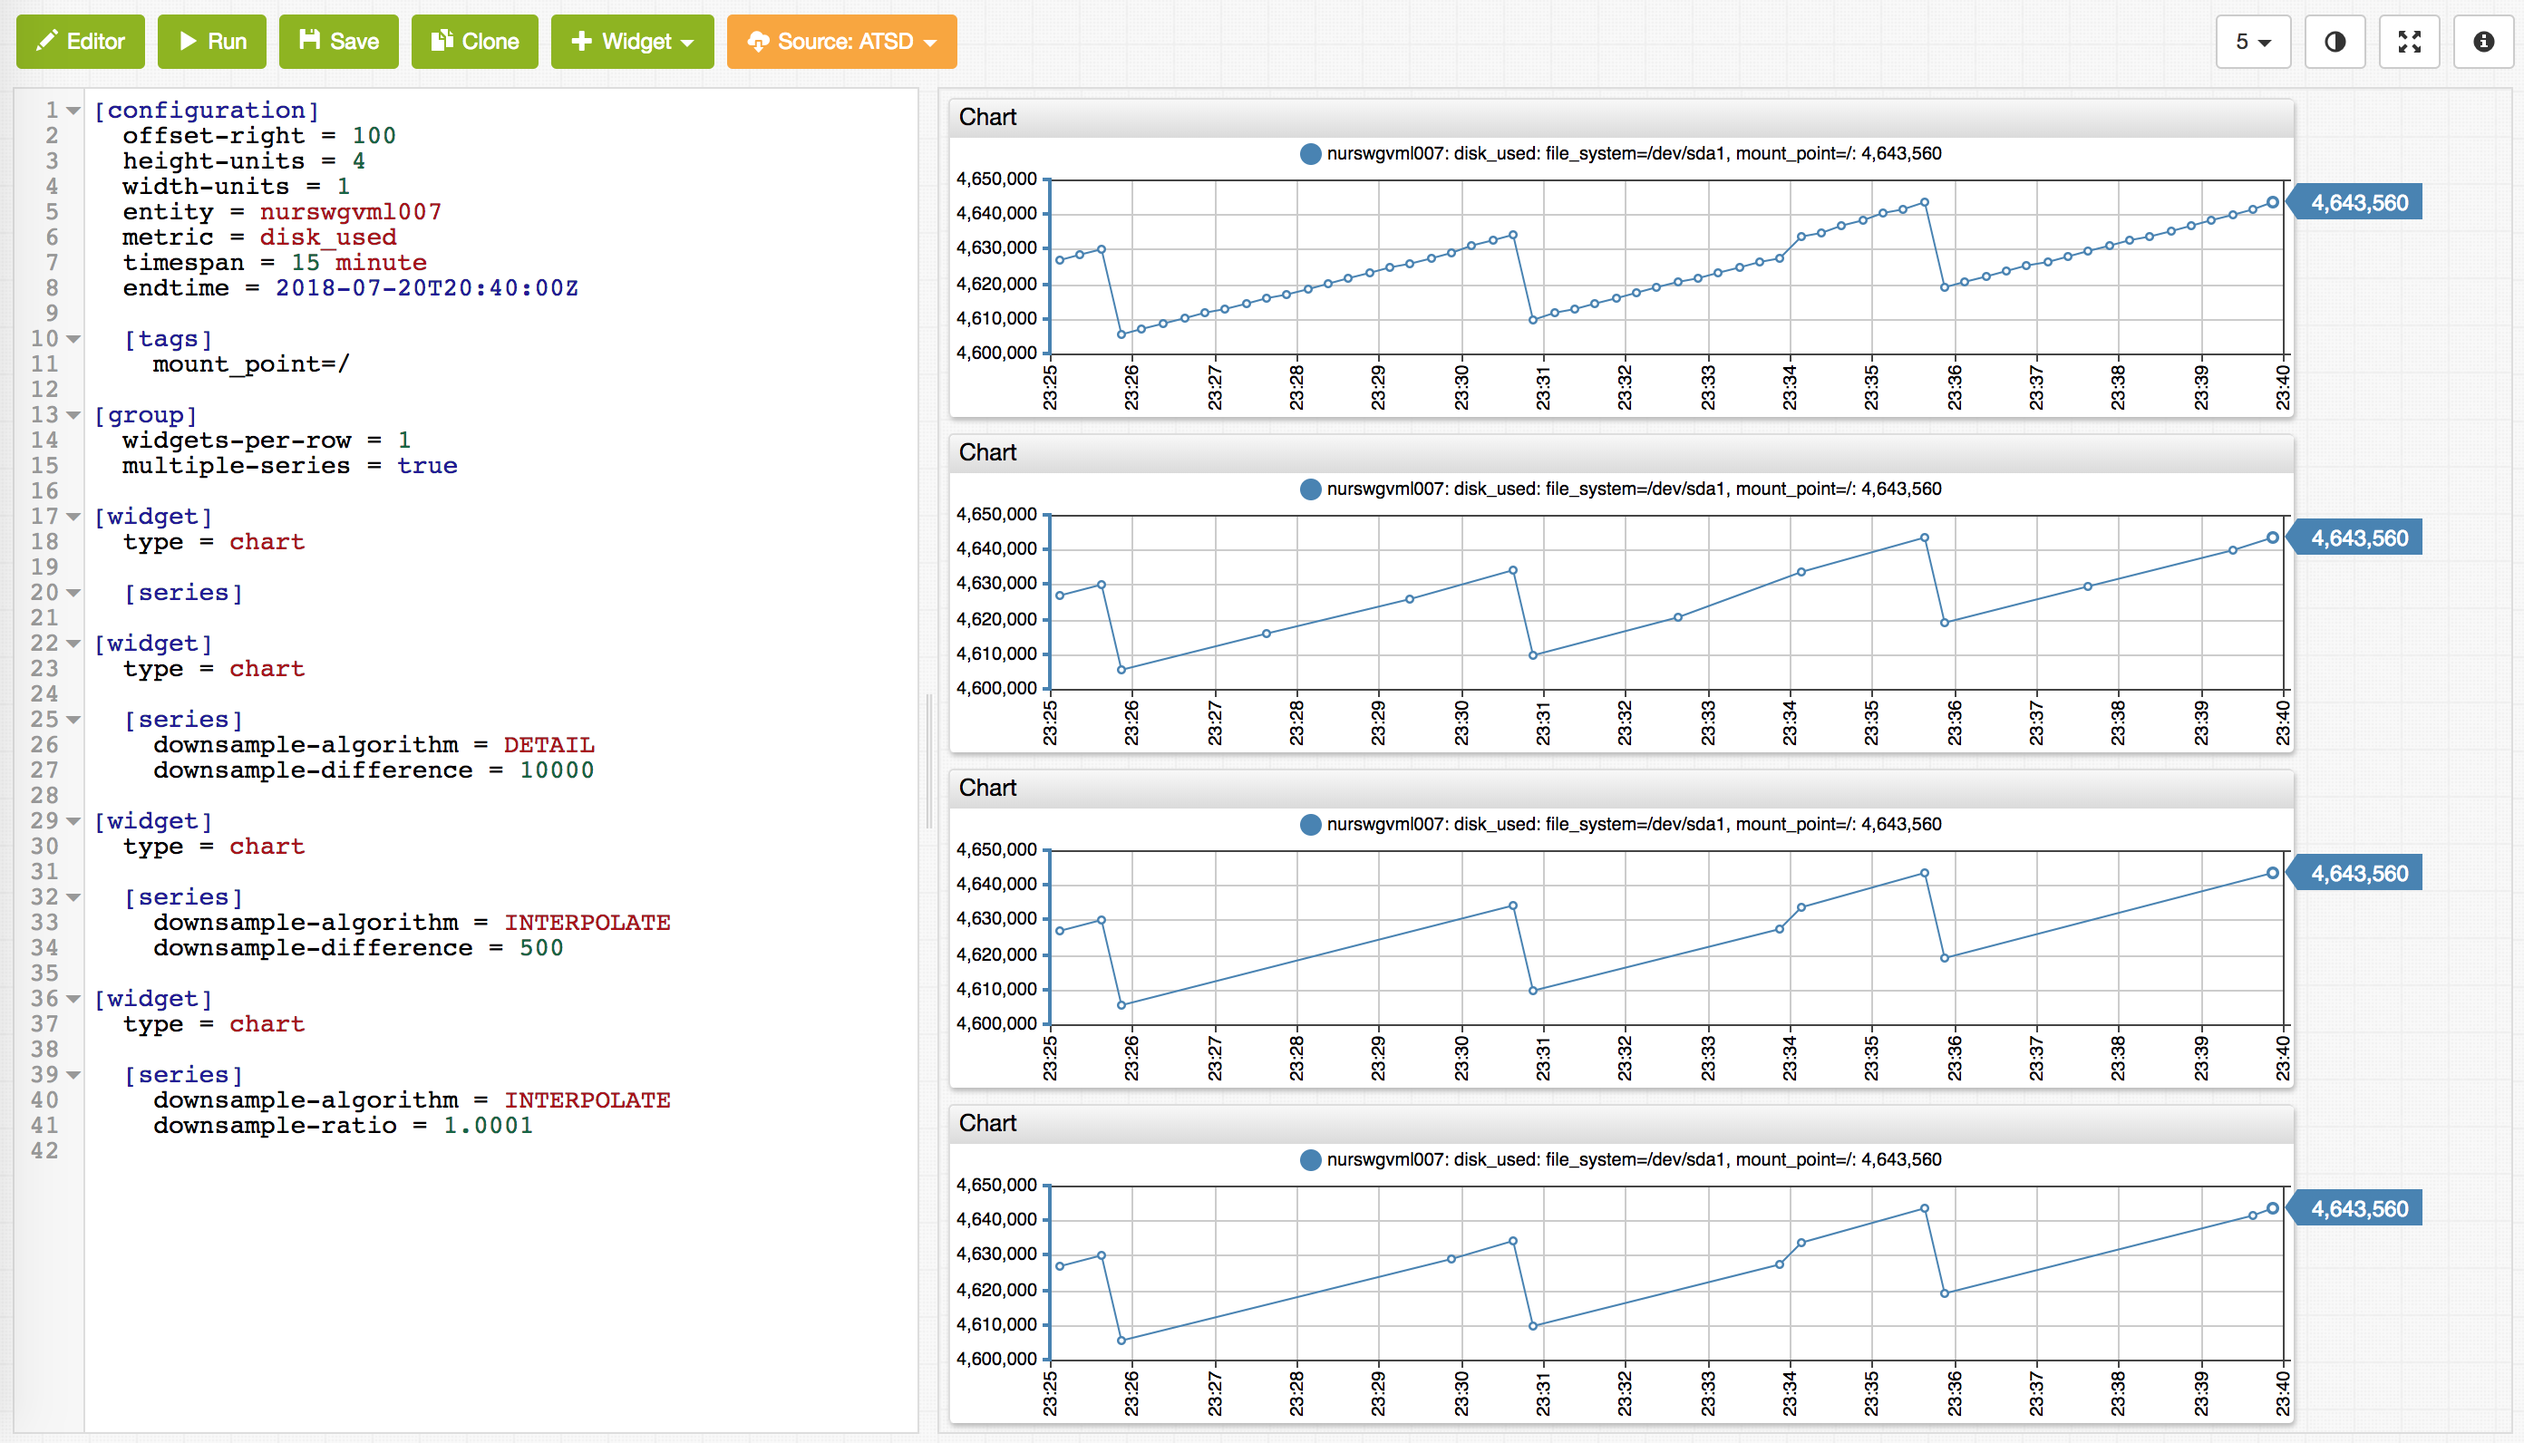
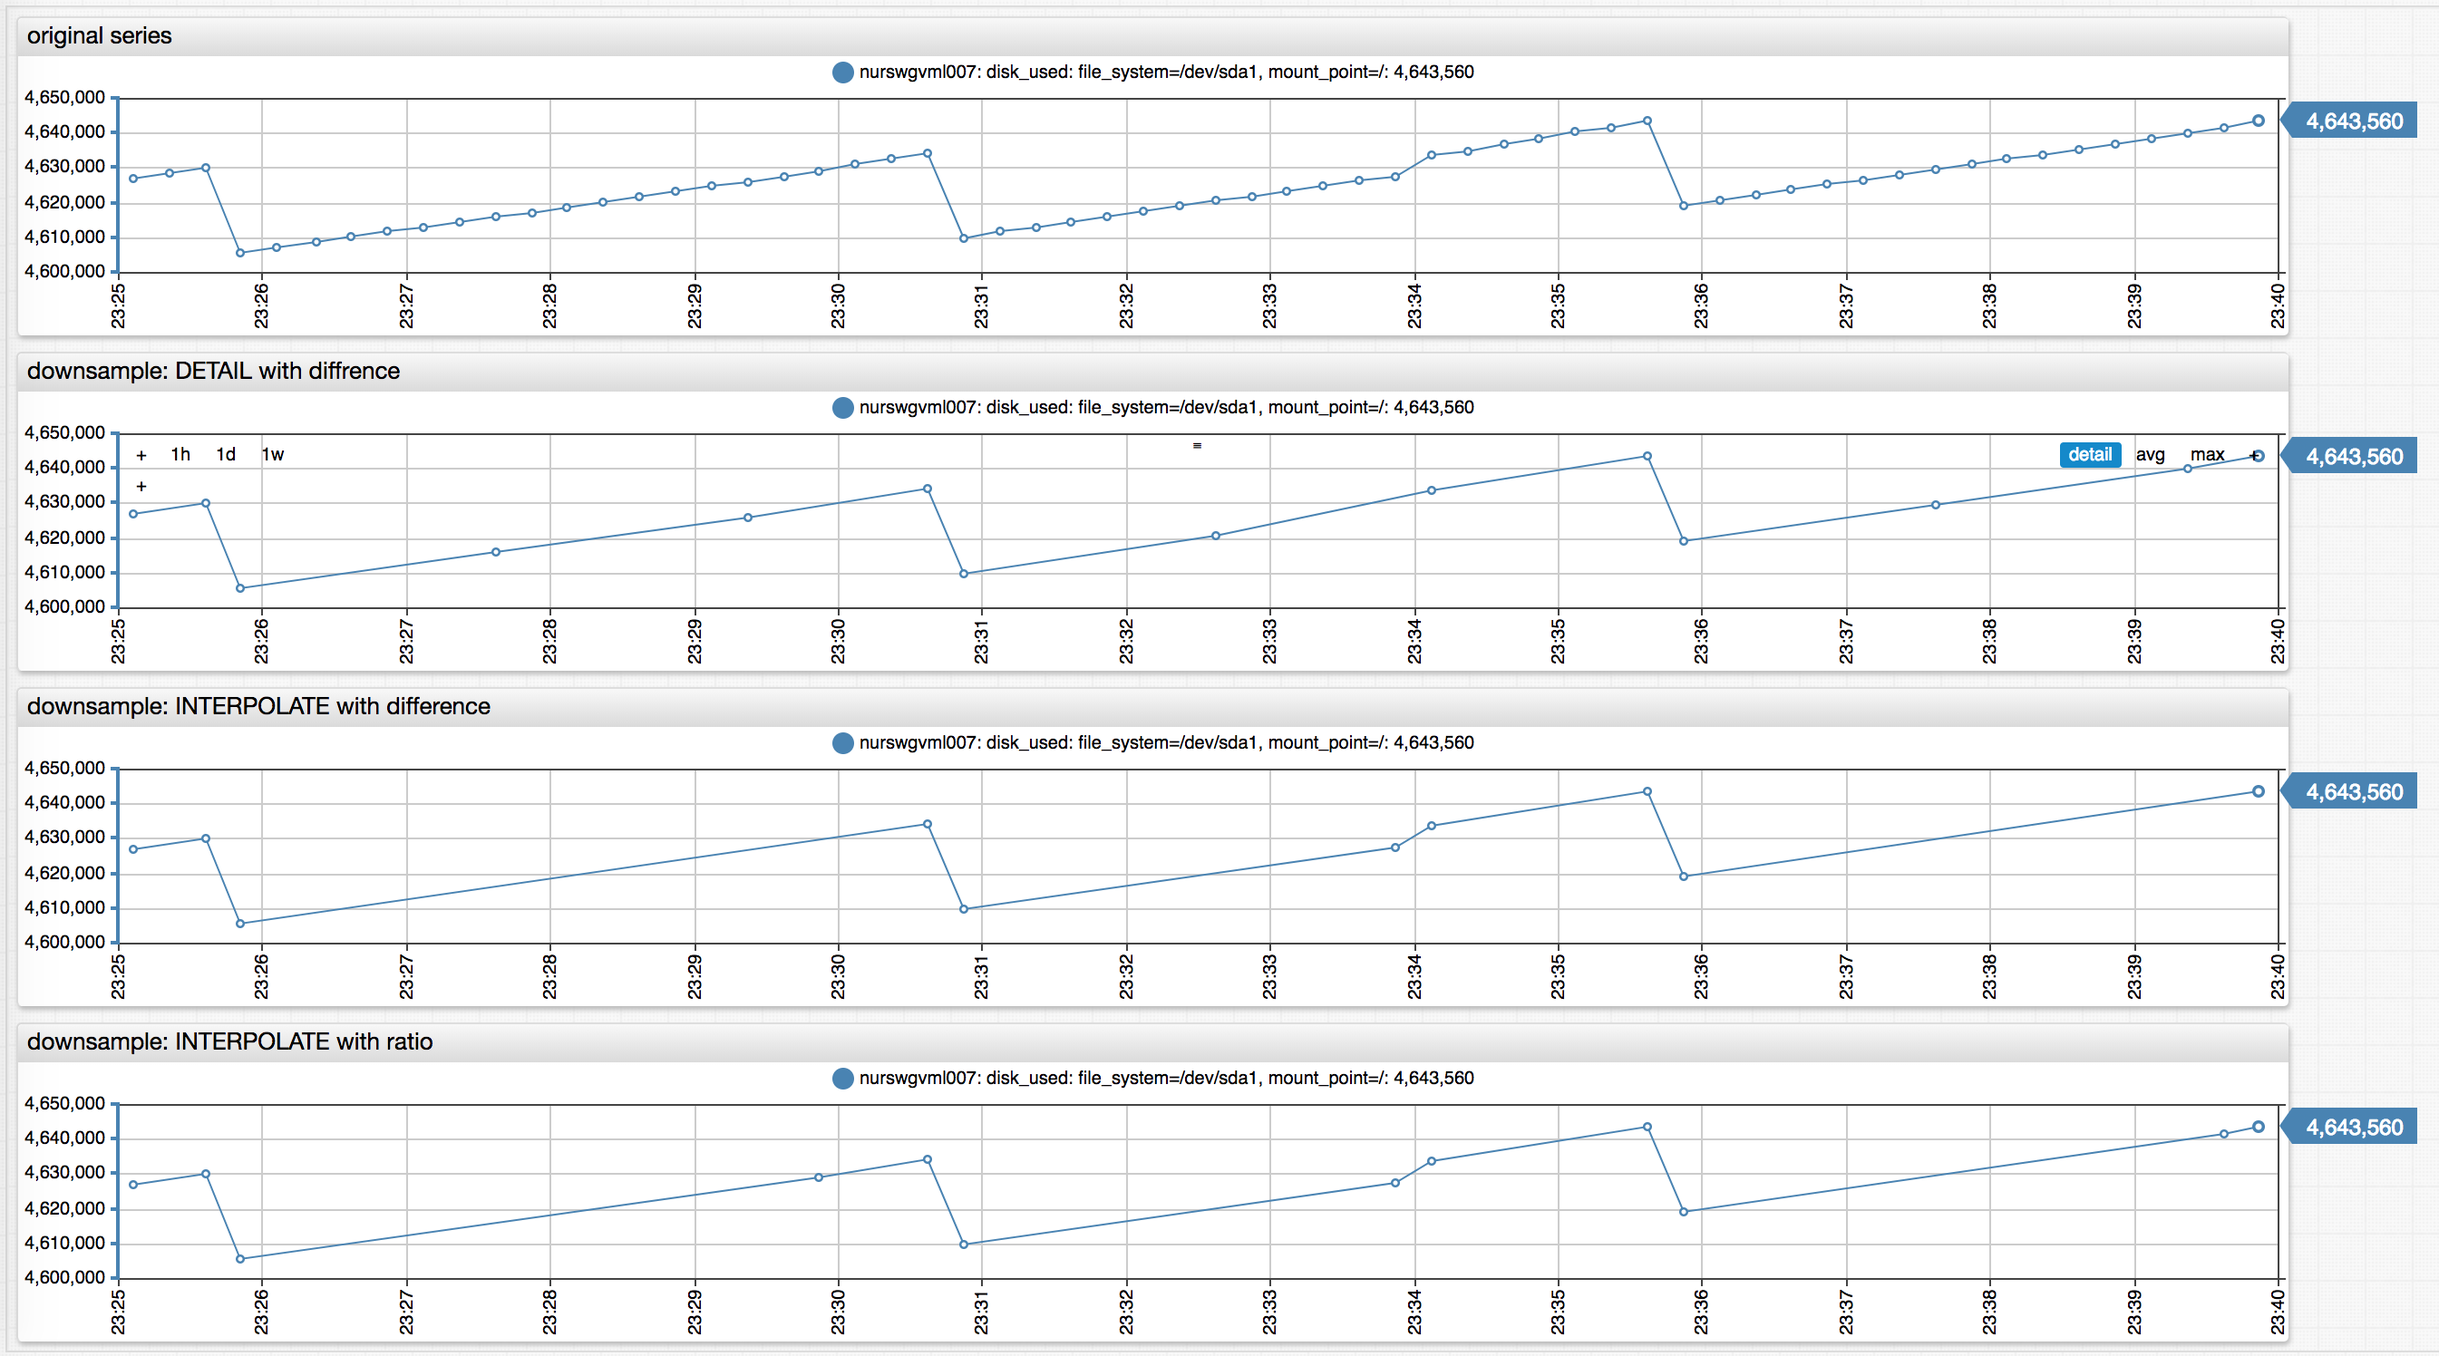
Downsampling. (#711)
* Remove bad downsampling screenshot.

* Add new downsampling screenshot.

* Change wording in charts description.

* Final fixes

Changed region(s): [[0.0, 0.0, 0.9993, 1.0], [0.1561, 0.369, 0.2186, 0.4305]]

diff --git a/api/data/series/downsample.md b/api/data/series/downsample.md
@@ -230,12 +230,13 @@ Result:
 |   18  |   2    |      2      |      -       |   -   | last sample
 ```
 
-Charts of the original and downsampled series. Accepted series samples are green, rejected samples are red.
-![Charts of original and downsampled series.](./images/original_and_downsampled.png)
+Charts of the input and downsampled series are provided below. The input series is colored red, the downsampled series is colored green.
 
-This graph illustrates how the algorithm calculates interpolated values. Interpolated values colored blue.
-![Interpolation.](./images/downsampling_interpolation.png)
+![](./images/original_and_downsampled.png)
 
-### ChartLab example of both algorithms
+The chart illustrates how the `INTERPOLATE` algorithm calculates interpolated values. Interpolated values are colored blue.
+![](./images/downsampling_interpolation.png)
 
-![Downsampling charts](./images/downsampling_charts.png)
+[ChartLab Examples](https://apps.axibase.com/chartlab/0a5044f0/7/)
+
+![](./images/downsampling_charts.png)
